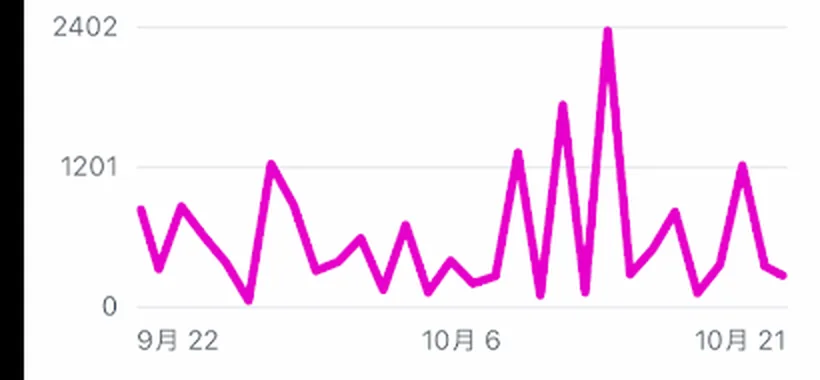
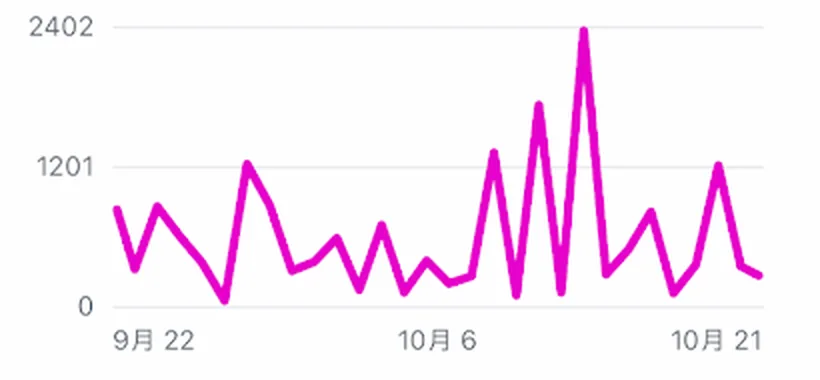
実績: 池袋の居酒屋様のグラフ画像から左端の黒帯を除去。プロフィールのnote連載表記を「noteで公開中」に変更

diff --git a/index.html b/index.html
@@ -1327,7 +1327,7 @@
                             デザインの分野ではディレクターとして制作を統括した経験を持ち、撮影・デザイン・SNS運用・データ分析までを一人で完結。さらに最新のAIを日々の業務に駆使することで、大手代理店のような分業や中間マージンなしに、低コストで高品質なサポートをお約束します。
                         </p>
                         <p class="text-sm text-gray-600 font-light leading-relaxed mt-4">
-                            現在、自作アプリ3本の開発記録「飲食コンサル1人 アプリ3本 42日間の開発失敗録」をnoteで連載中です（毎週火・金 21時更新）。
+                            現在、自作アプリ3本の開発記録「飲食コンサル1人 アプリ3本 42日間の開発失敗録」をnoteで公開中です。
                         </p>
                         <a href="https://note.com/long_clover8311/n/n98779ff97912" target="_blank" rel="noopener" class="mt-4 block bg-fukuya-warm border border-gray-200 p-4 hover:shadow-md hover:-translate-y-0.5 transition-all group">
                             <div class="flex items-center gap-3">
